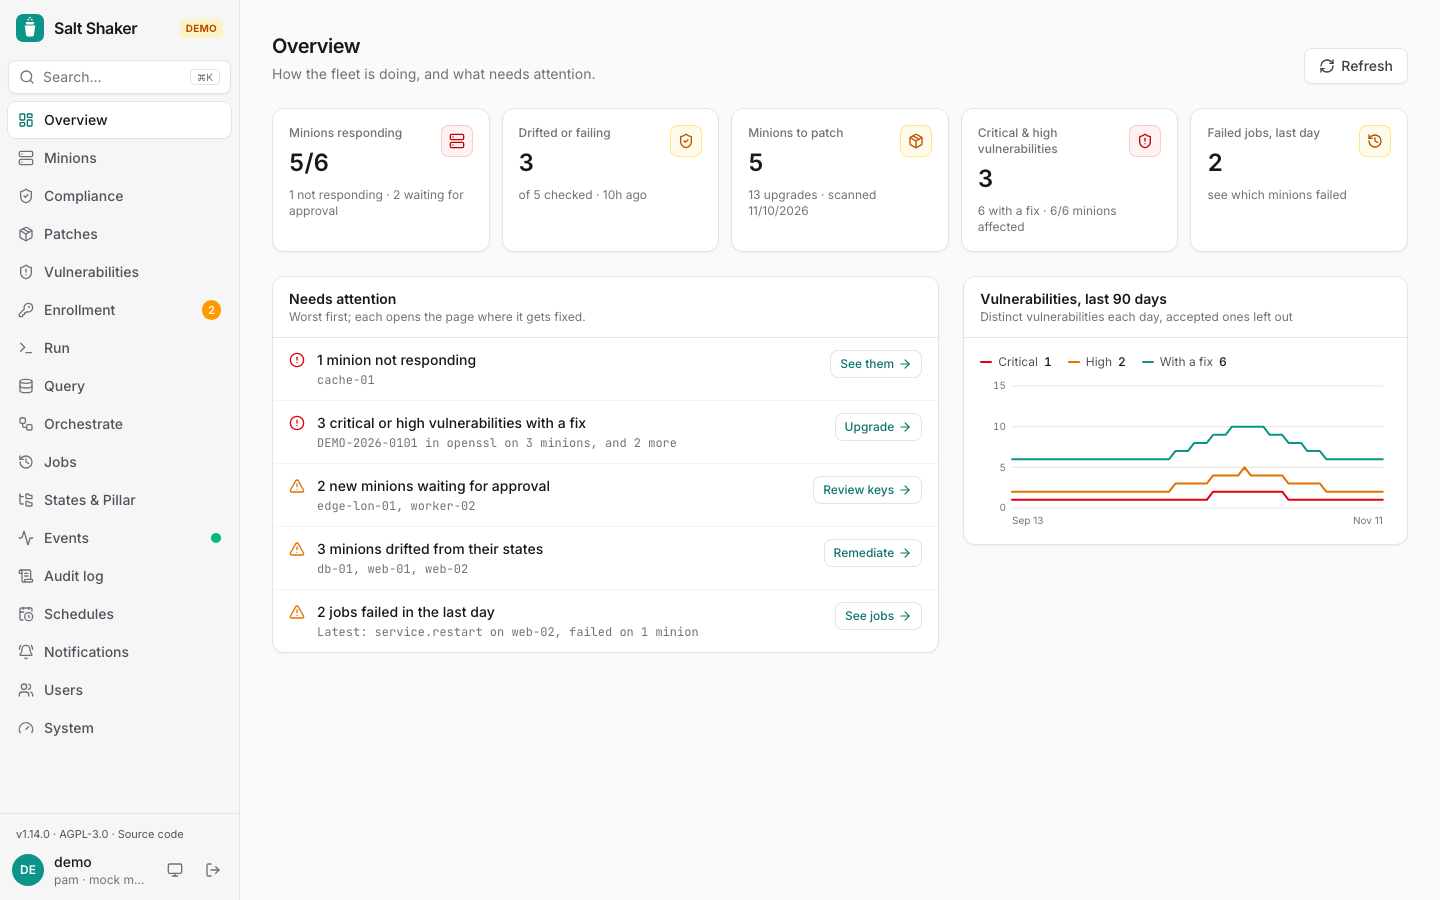
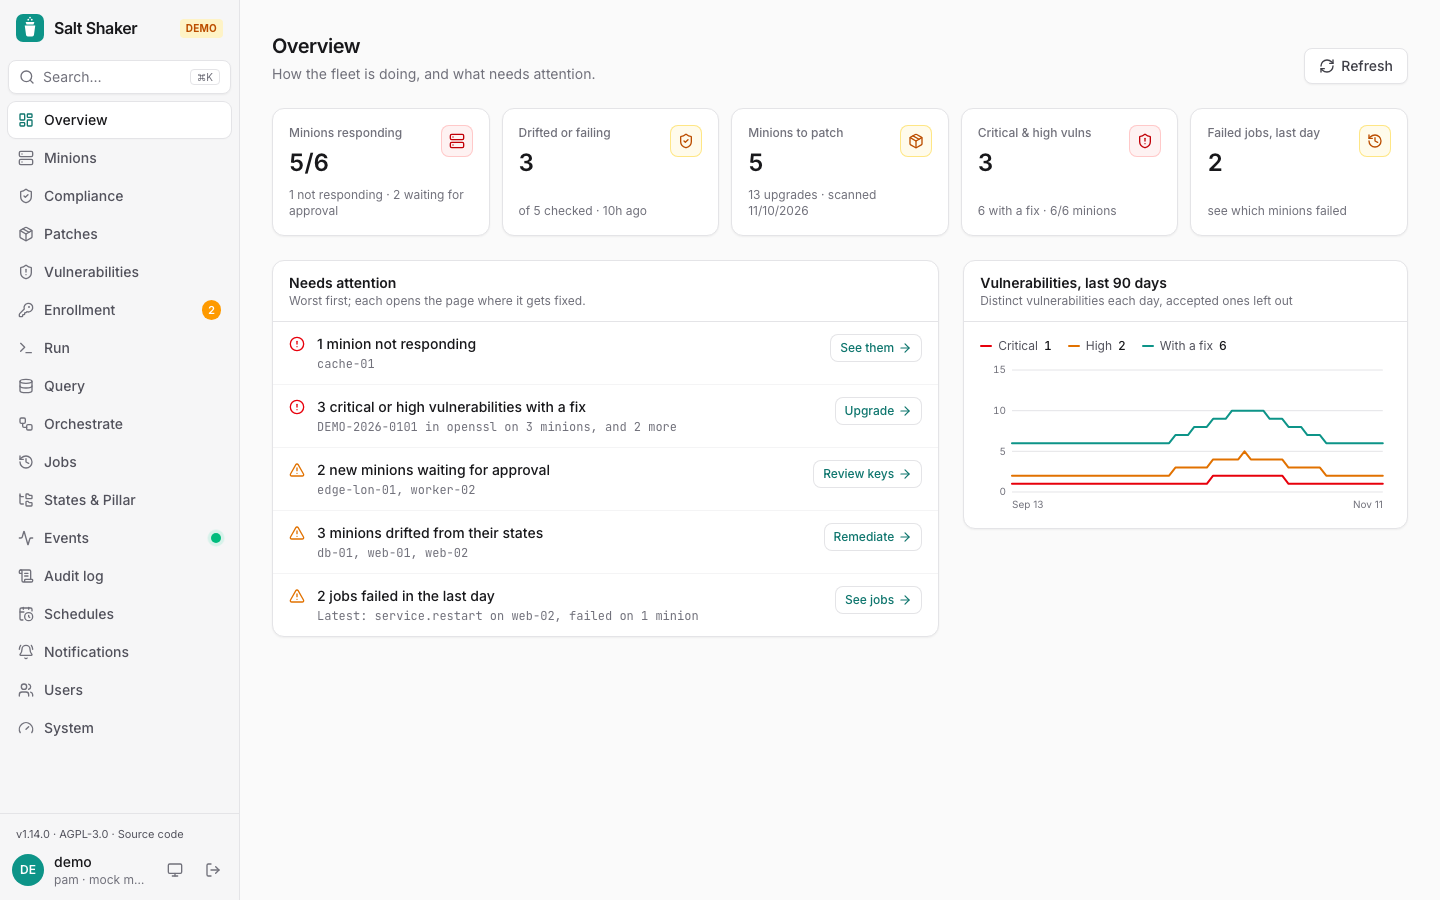
Give stat tiles the same height and line up their numbers
A stat is as tall as its row, with its label on one line and its hint
at the bottom, so stats side by side line up on every page. The
overview uses three columns at medium widths and five on wide screens,
where the labels fit.

diff --git a/src/pages/Overview.tsx b/src/pages/Overview.tsx
@@ -63,7 +63,7 @@ export function OverviewPage() {
         }
       />
 
-      <div className="mb-6 grid grid-cols-1 gap-3 sm:grid-cols-2 lg:grid-cols-5">
+      <div className="mb-6 grid grid-cols-1 gap-3 sm:grid-cols-2 lg:grid-cols-3 xl:grid-cols-5">
         <Tile to={minionsDown ? '/minions?status=down' : '/minions'}>
           <Stat
             label="Minions responding"
@@ -98,11 +98,11 @@ export function OverviewPage() {
         {mode !== 'live' && (
           <Tile to="/vulnerabilities">
             <Stat
-              label="Critical & high vulnerabilities"
+              label="Critical & high vulns"
               value={o.vulns ? o.vulns.critical + o.vulns.high : vulns.loading ? '…' : '—'}
               icon={<ShieldAlert />}
               tone={!o.vulns ? 'zinc' : o.vulns.critical ? 'red' : o.vulns.high ? 'amber' : 'green'}
-              hint={o.vulns ? `${o.vulns.fixable} with a fix · ${o.vulns.affected}/${o.vulns.scanned} minions affected` : vulns.loading ? null : 'no vulnerability scan yet'}
+              hint={o.vulns ? `${o.vulns.fixable} with a fix · ${o.vulns.affected}/${o.vulns.scanned} minions` : vulns.loading ? null : 'no vulnerability scan yet'}
             />
           </Tile>
         )}
@@ -154,7 +154,7 @@ export function OverviewPage() {
 /** A stat that opens the page behind it. */
 function Tile({ to, children }: { to: string; children: ReactNode }) {
   return (
-    <Link to={to} className="block h-full rounded-xl transition [&>div]:h-full hover:-translate-y-0.5 hover:shadow-md focus-visible:outline-2 focus-visible:outline-offset-2 focus-visible:outline-accent-500">
+    <Link to={to} className="block h-full rounded-xl transition hover:-translate-y-0.5 hover:shadow-md focus-visible:outline-2 focus-visible:outline-offset-2 focus-visible:outline-accent-500">
       {children}
     </Link>
   )

diff --git a/src/components/ui.tsx b/src/components/ui.tsx
@@ -237,15 +237,18 @@ export function Tabs<T extends string>({ value, onChange, items }: { value: T; o
 
 export function Stat({ label, value, icon, tone = 'zinc', hint }: { label: string; value: ReactNode; icon: ReactNode; tone?: Tone; hint?: ReactNode }) {
   return (
-    <Card className="p-4">
-      <div className="flex items-start justify-between">
-        <div>
-          <p className="text-xs font-medium text-zinc-500 dark:text-zinc-400">{label}</p>
+    // as tall as its row, with the hint at the bottom, so stats side by side line up
+    <Card className="flex h-full flex-col p-4">
+      <div className="flex items-start justify-between gap-2">
+        <div className="min-w-0">
+          <p className="truncate text-xs font-medium text-zinc-500 dark:text-zinc-400" title={label}>
+            {label}
+          </p>
           <p className="mt-1.5 text-2xl font-semibold tabular-nums">{value}</p>
         </div>
         <div className={clsx('rounded-lg p-2 ring-1 ring-inset [&>svg]:size-4', tones[tone])}>{icon}</div>
       </div>
-      {hint && <p className="mt-2 text-xs text-zinc-500 dark:text-zinc-400">{hint}</p>}
+      {hint && <p className="mt-auto pt-2 text-xs text-zinc-500 dark:text-zinc-400">{hint}</p>}
     </Card>
   )
 }

diff --git a/e2e/demo.spec.ts b/e2e/demo.spec.ts
@@ -13,7 +13,7 @@ test('the overview shows how the fleet is doing and what needs attention', async
   const tile = (label: string) => page.getByRole('link', { name: new RegExp(label) })
   await expect(tile('Minions responding')).toContainText('5/6')
   await expect(tile('Drifted or failing')).toContainText('3')
-  await expect(tile('Critical & high vulnerabilities')).toContainText('6 with a fix')
+  await expect(tile('Critical & high vulns')).toContainText('6 with a fix')
   await expect(tile('Failed jobs, last day')).toBeVisible()
 
   // worst first, each pointing where it gets fixed
